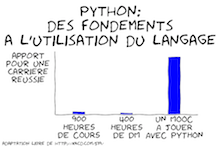
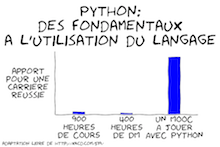
fondamentaux au lieu de fondements + legende a gauche centree

Changed region(s): [[0.0273, 0.3537, 0.2455, 0.6803], [0.1636, 0.1088, 0.8455, 0.2449]]

diff --git a/00-teaser/xkcd.py b/00-teaser/xkcd.py
@@ -18,7 +18,7 @@ fig.subplots_adjust(left=0.25,bottom=0.22,top=0.65)
 fig.text(0.01,0.01,"adaptation libre de http://xkcd.com/519/",
          fontsize=14,ha='left',va='bottom')
 
-fig.text(0.5,0.82,"Python:\ndes fondements\na l'utilisation du langage",
+fig.text(0.5,0.82,"Python:\ndes fondamentaux\na l'utilisation du langage",
          fontsize=45, ha='center',va='center')
 
 #plt.title("Python\ndes fondements\naux applications",fontsize=45)
@@ -43,6 +43,7 @@ plt.yticks([])
 ax.set_ylabel("apport\npour une\ncarriere\nreussie",
               rotation='horizontal',
               labelpad=80,
+              va='center',
               fontsize=26)
 
 
